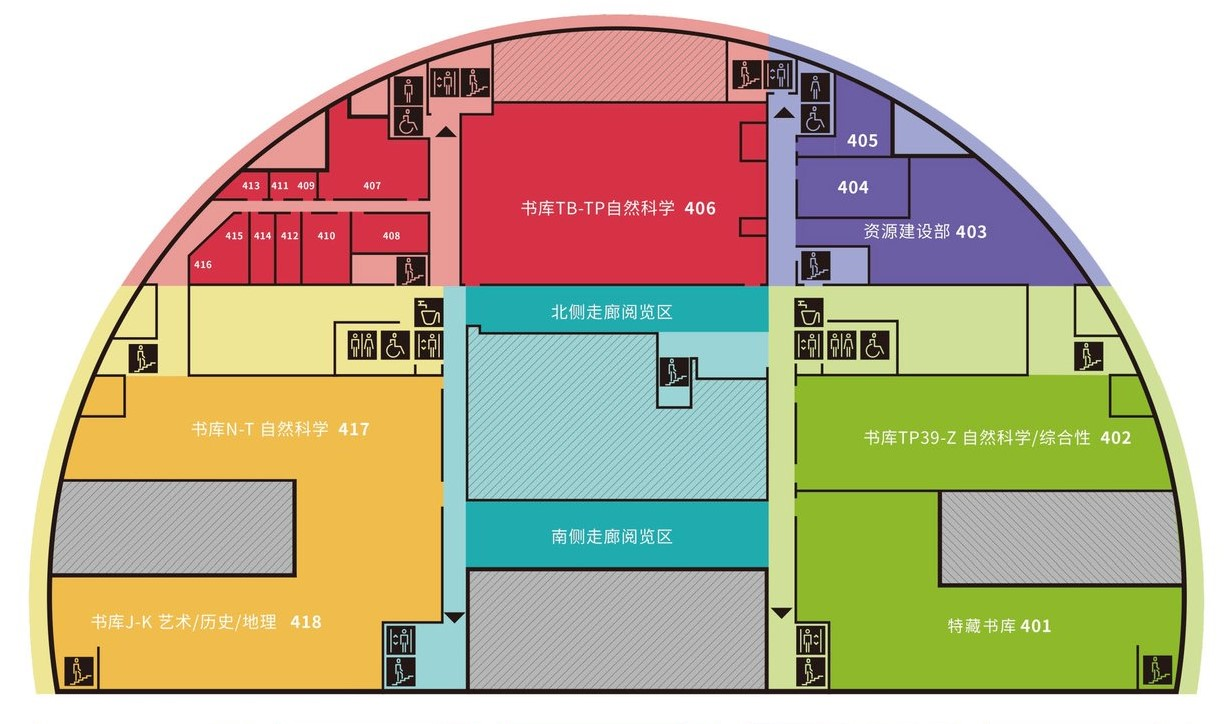
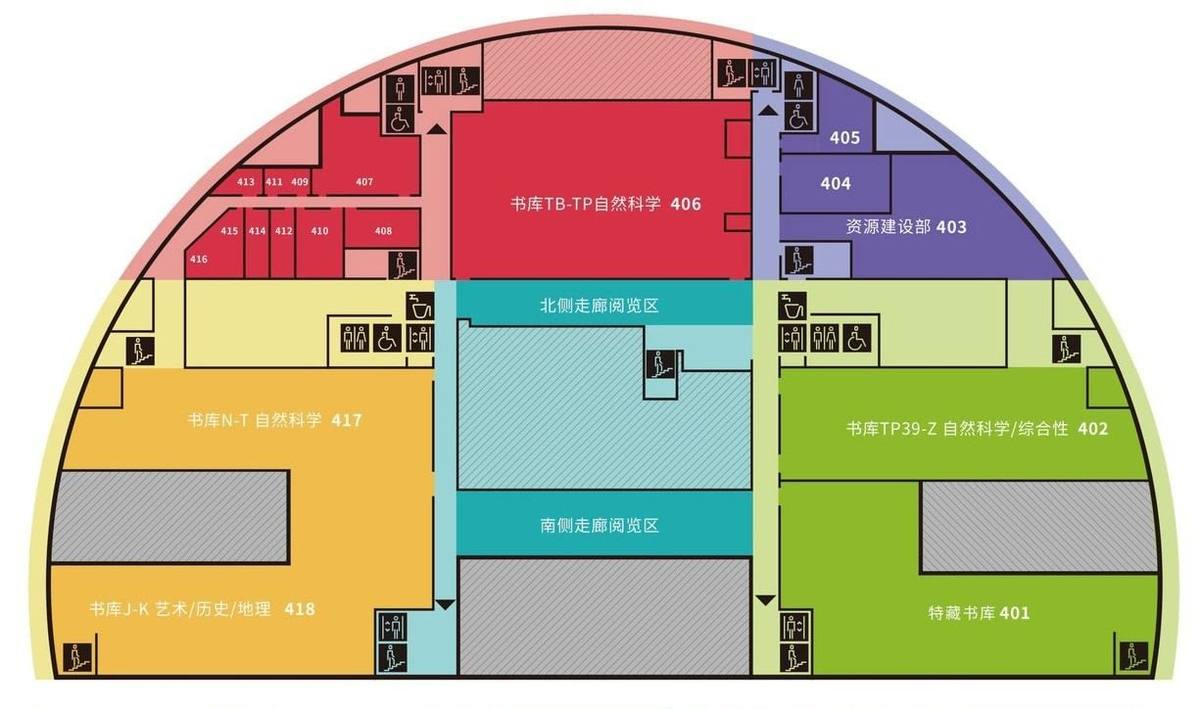
修复走廊C区图片404(文件名统一小写,适配GitHub Pages大小写敏感) + 图片压缩提速(5.24MB->2.72MB)

diff --git a/seatmap.html b/seatmap.html
@@ -207,14 +207,15 @@ function floorImgSrc() {
   return IMG_DIR + 'floor' + ((f && f.floorNum) || curFloorId) + '.jpg';
 }
 
-// 房间名 → 图片文件名映射（保留原始大小写，如 room2C.jpg / room4A.jpg）
+// 房间名 → 图片文件名映射（文件名统一小写：GitHub Pages 区分大小写，
+// 房间名"C区/A区"里的大写字母拼接时必须 toLowerCase，否则 404）
 // 特殊规则在前（511 拆两区、现刊阅览室=306+307 合并图、1 楼非编号房间）
 function getRoomImage(roomName) {
   const SPECIAL = {
     '^511室-1': 'room511a.jpg',
     '^511室-2': 'room511b.jpg',
     '^3楼现刊': 'room306307.jpg',
-    '^一楼E': 'room1E.jpg',
+    '^一楼E': 'room1e.jpg',
     '^111': 'room111.jpg',
   };
   for (const [pat, img] of Object.entries(SPECIAL)) {
@@ -223,7 +224,7 @@ function getRoomImage(roomName) {
   let m = roomName.match(/^(\d{3})/);
   if (m) return `room${m[1]}.jpg`;
   m = roomName.match(/^(\d)楼.*（([A-Za-z])区/);
-  if (m) return `room${m[1]}${m[2]}.jpg`;
+  if (m) return `room${m[1]}${m[2].toLowerCase()}.jpg`;
   return null;
 }
 
